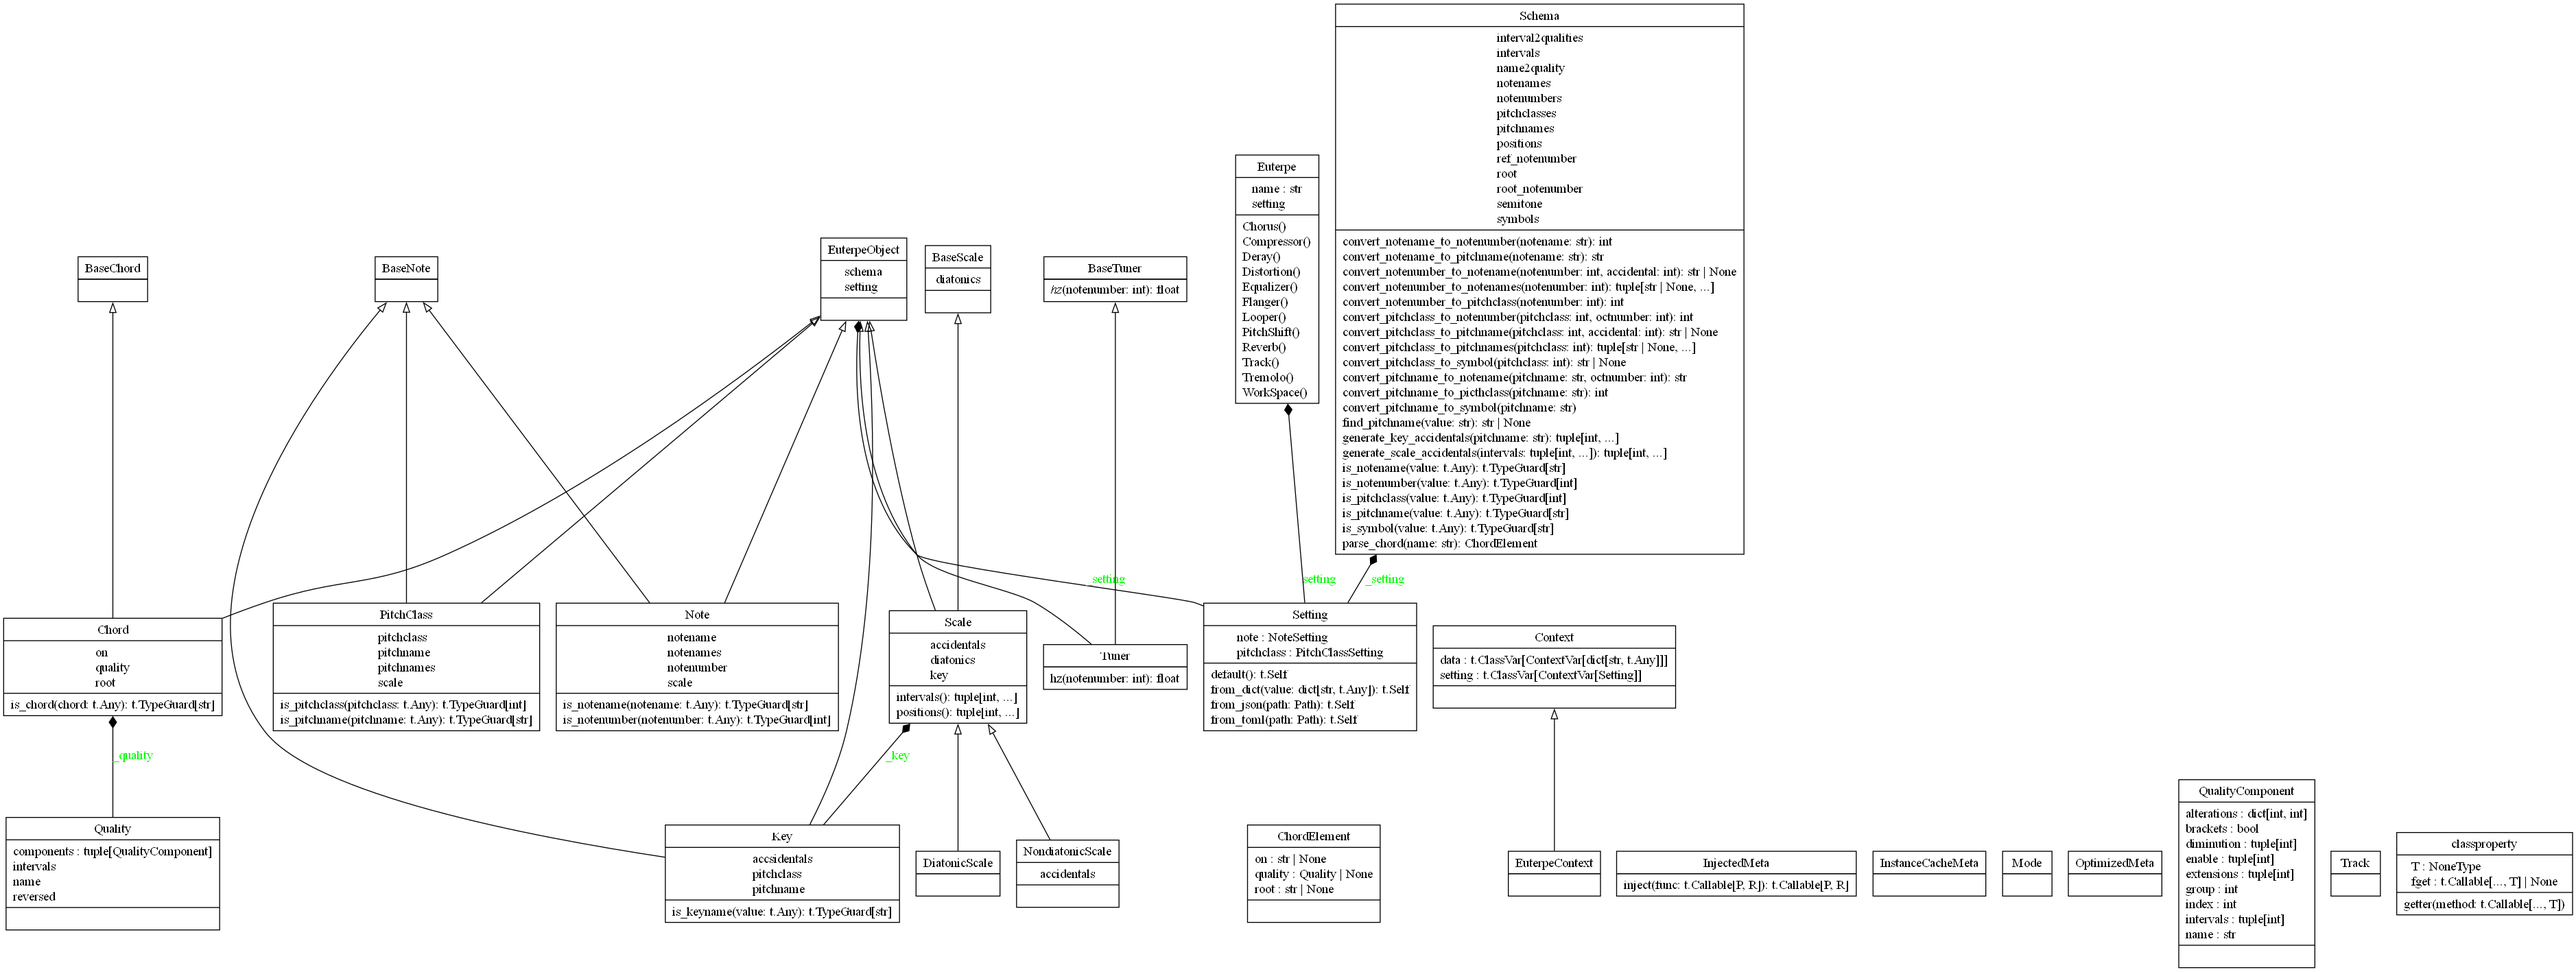
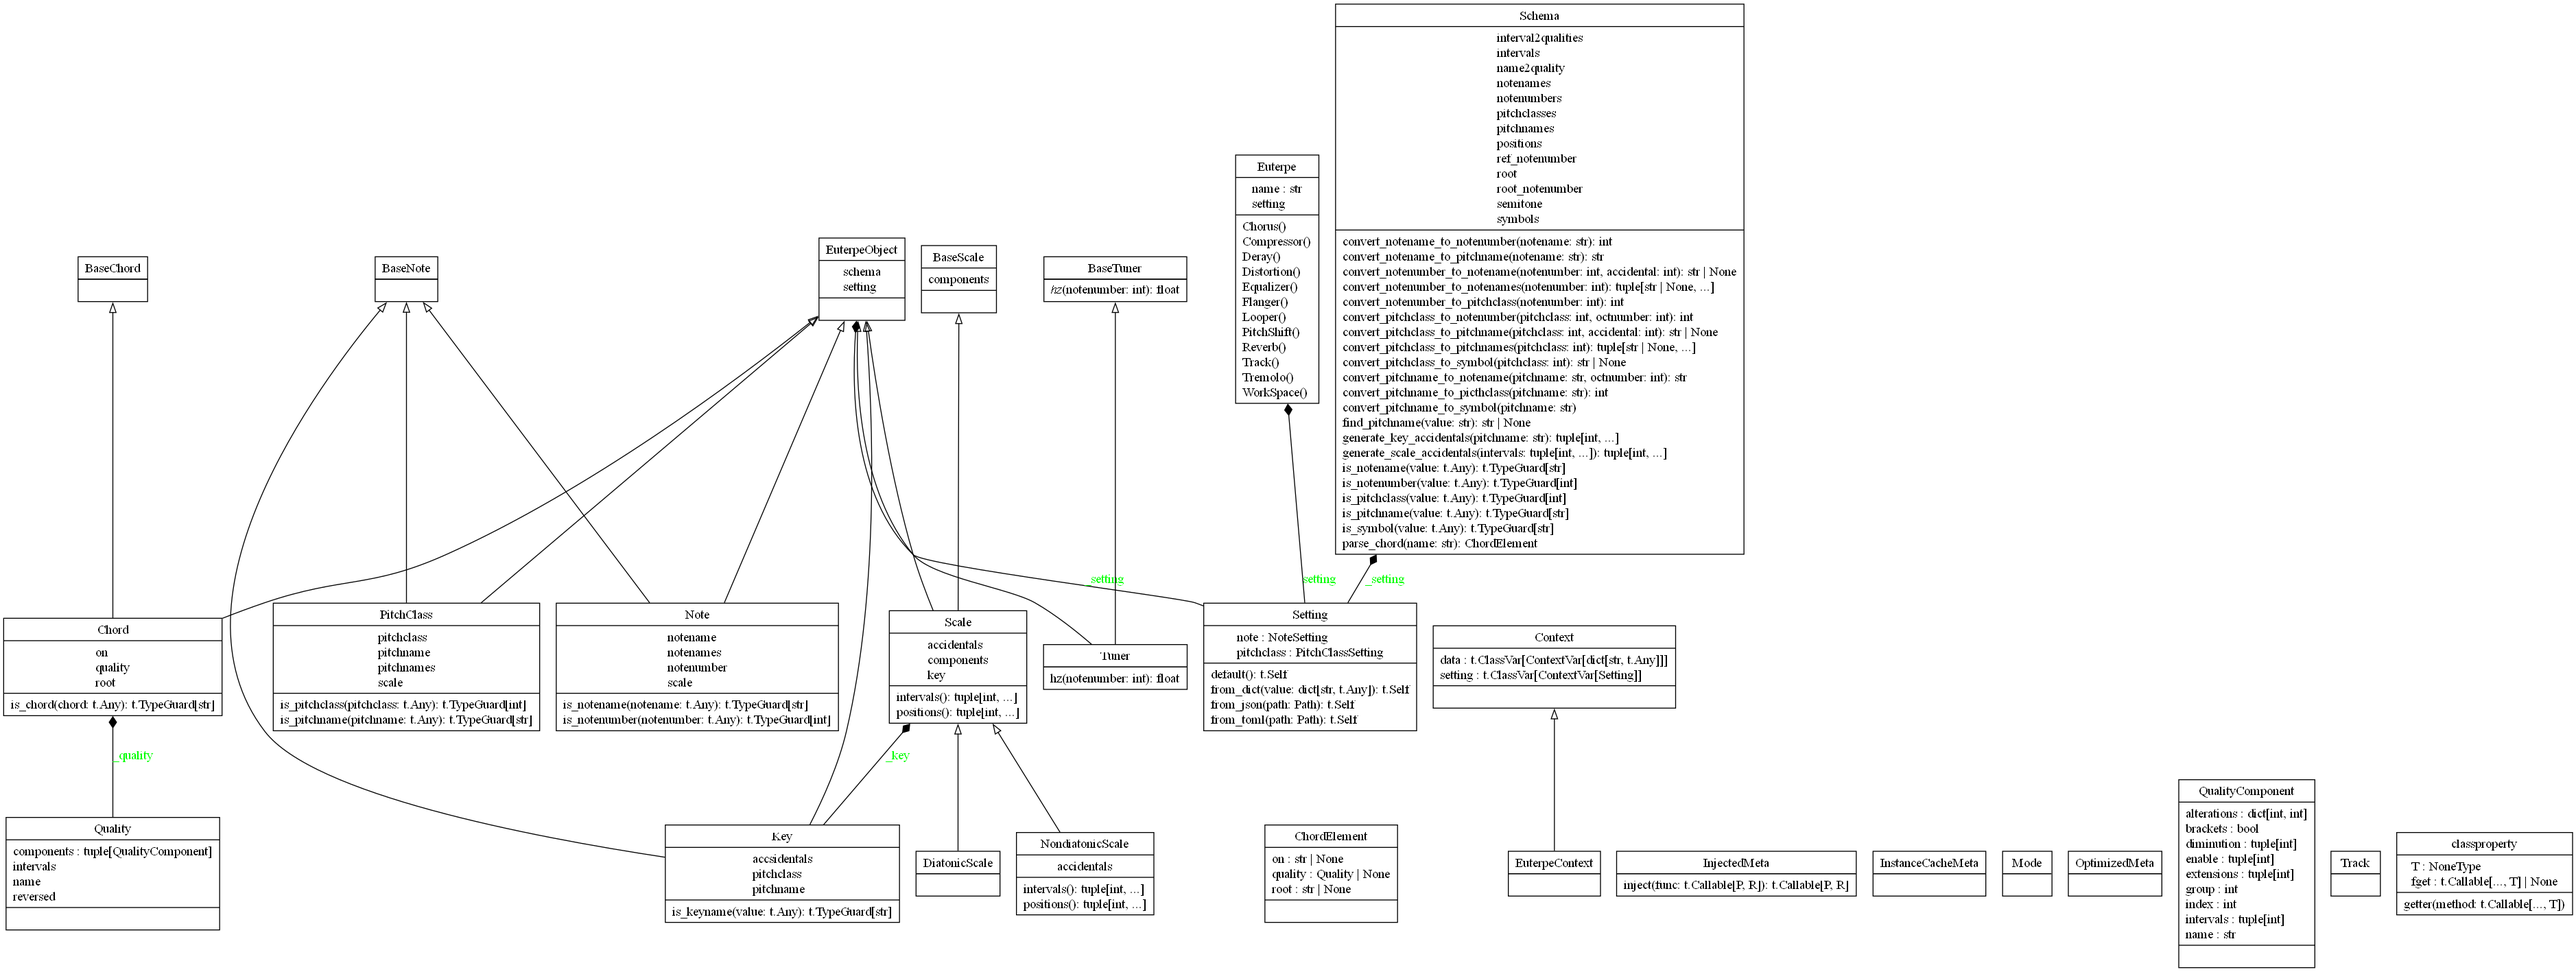
redesign scale.py

diff --git a/src/euterpe/scale/scale.py b/src/euterpe/scale/scale.py
@@ -10,7 +10,9 @@ from ._base import BaseScale
 class Scale(BaseScale, EuterpeObject):
 
     _intervals: t.ClassVar[tuple[int, ...]]
+    _positions: t.ClassVar[tuple[int, ...]]
     _key: Key
+    _accidentals: tuple[int, ...]
 
     def __new__(cls, *args, **kwargs) -> t.Self:
         if cls is Scale:
@@ -20,10 +22,12 @@ class Scale(BaseScale, EuterpeObject):
     def __init__(self, key: Key, **kwargs) -> None:
         super().__init__(**kwargs)
         self._key = key
+        self._accidentals = self.schema.generate_scale_accidentals(self._intervals)
 
     def __init_subclass__(cls, /, intervals: t.Sequence[int], **kwargs) -> None:
         super().__init_subclass__(**kwargs)
         cls._intervals = tuple(intervals)
+        cls._positions = tuple(accumulate((0,) + cls._intervals[:-1]))
 
     @property
     def key(self) -> Key:
@@ -35,22 +39,21 @@ class Scale(BaseScale, EuterpeObject):
 
     @classproperty
     def positions(cls) -> tuple[int, ...]:
-        return tuple(accumulate((0,) + cls._intervals[:-1]))
+        return cls._positions
 
     @property
     def accidentals(self) -> tuple[int, ...]:
-        _accidentals = self.schema.generate_scale_accidentals(self._intervals)
-        return tuple(_accidentals)
+        return self._accidentals
 
     @property
-    def diatonics(self) -> list[PitchClass]:
-        diatonics = []
+    def components(self) -> list[PitchClass]:
+        components = []
         root = PitchClass(self._key.pitchname, scale=self, setting=self.setting)
         for pos in self.positions:
             pitchclass = (root + pos).pitchclass
             note = PitchClass(pitchclass, scale=self, setting=self.setting)
-            diatonics.append(note)
-        return diatonics
+            components.append(note)
+        return components
 
     def __eq__(self, other: t.Any) -> bool:
         if not isinstance(other, Scale):

diff --git a/src/euterpe/scale/diatonic.py b/src/euterpe/scale/diatonic.py
@@ -1,7 +1,7 @@
 import typing as t
 from itertools import pairwise
 
-from .._core.utils import rotated
+from .._core.utils import classproperty, rotated
 from ..note import Key
 from .scale import Scale
 
@@ -44,23 +44,32 @@ class NondiatonicScale(Scale, intervals=()):
     def __init_subclass__(
         cls, /, extensions: t.Sequence[t.Sequence[int]], base: type[Scale], **kwargs
     ) -> None:
+        super().__init_subclass__(intervals=base.intervals, **kwargs)
         cls._base = base
         cls._extensions = tuple(tuple(inner) for inner in extensions)
-        _positions = tuple(
-            d + nd for d, nds in zip(base.positions, cls._extensions) for nd in nds
+
+    @classproperty
+    def intervals(cls) -> tuple[int, ...]:
+        intervals = tuple(
+            b - a for a, b in pairwise(cls.positions + (sum(super().intervals),))
         )
-        _intervals = tuple(
-            b - a for a, b in pairwise(_positions + (sum(base.intervals),))
+        return intervals
+
+    @classproperty
+    def positions(cls) -> tuple[int, ...]:
+        positions = tuple(
+            d + nd for d, nds in zip(super().positions, cls._extensions) for nd in nds
         )
-        super().__init_subclass__(intervals=_intervals, **kwargs)
+        return positions
 
     @property
     def accidentals(self) -> tuple[int, ...]:
-        _accidentals = self.schema.generate_scale_accidentals(self._base.intervals)
-        _accidentals = tuple(
-            d + nd for d, nds in zip(_accidentals, self._extensions) for nd in nds
+        accidentals = tuple(
+            d + nd
+            for d, nds in zip(super().accidentals, self._extensions)
+            for nd in nds
         )
-        return _accidentals
+        return accidentals
 
     def __eq__(self, other: t.Any) -> bool:
         if not isinstance(other, NondiatonicScale):

diff --git a/src/run.py b/src/run.py
@@ -13,11 +13,24 @@ def track1():
     # print(ab5.root, ab5.quality.name, ab5.on)
 
     pprint(Tuner.mro())
-    pprint(Dorian(Key("C")).diatonics)
-    pprint(Dorian(Key("F#")).diatonics)
-    pprint(Dorian(Key("Gb")).diatonics)
-    # pprint(Note("C#4").schema._pitchclass.class2name)
+    pprint(Dorian(Key("C")).components)
+    pprint(Dorian(Key("F#")).components)
+    pprint(Dorian(Key("Gb")).components)
+    
 
-    pprint(Pentatonic(Key("C")).diatonics)
+    pprint(Pentatonic.intervals)
+    pprint(Pentatonic.positions)
+    pprint(Pentatonic(Key("Gb")).accidentals)
+    pprint(Pentatonic(Key("Gb")).components)
+    pprint(MinorPentatonic.intervals)
+    pprint(MinorPentatonic.positions)
+    pprint(Ionian(Key("F#")).accidentals)
+    pprint(Pentatonic(Key("F#")).components)
+    pprint(MinorPentatonic(Key("F#")).components)
+
+    for key in Note("C#4").schema.pitchnames:
+        if len(key) < 3:
+            print(key)
+            pprint(Pentatonic(Key(key)).components)
 
 track1()

diff --git a/src/euterpe/note/pitchclass.py b/src/euterpe/note/pitchclass.py
@@ -71,12 +71,14 @@ class PitchClass(BaseNote, EuterpeObject):
 
         if isinstance(scale, Scale):
             pitchclass = (self.pitchclass - scale.key.pitchclass) % self.schema.semitone
-            if (idx := index(scale.positions, pitchclass)) is None:
+            if (idx := index(scale._positions, pitchclass)) is None:
                 return
-            acc, kacc = scale.accidentals[idx], scale.key.accsidentals[idx]
+            acc, kacc = scale._accidentals[idx], scale.key.accsidentals[idx]
             self._pitchname = self.schema.convert_pitchclass_to_pitchname(
                 self._pitchclass, acc + kacc
             )
+            if self._pitchname is None:
+                print(self._pitchclass, acc, kacc)
             self._scale = scale
 
     def __eq__(self, other: t.Any) -> bool:

diff --git a/src/euterpe/scale/implements/scale.py b/src/euterpe/scale/implements/scale.py
@@ -39,8 +39,8 @@ class Pentatonic(
 
 class MinorPentatonic(
     NondiatonicScale,
-    extensions=[[0], [0], [0], [], [0], [0], []],
-    base=Major,
+    extensions=[[0], [], [0], [0], [0], [], [0]],
+    base=Minor,
 ):
     """MinorPentatonic Scale"""
 

diff --git a/src/euterpe/scale/_base.py b/src/euterpe/scale/_base.py
@@ -9,4 +9,4 @@ class BaseScale:
 
     @property
     @abstractmethod
-    def diatonics(self) -> Sequence[BaseNote]: ...
+    def components(self) -> Sequence[BaseNote]: ...
